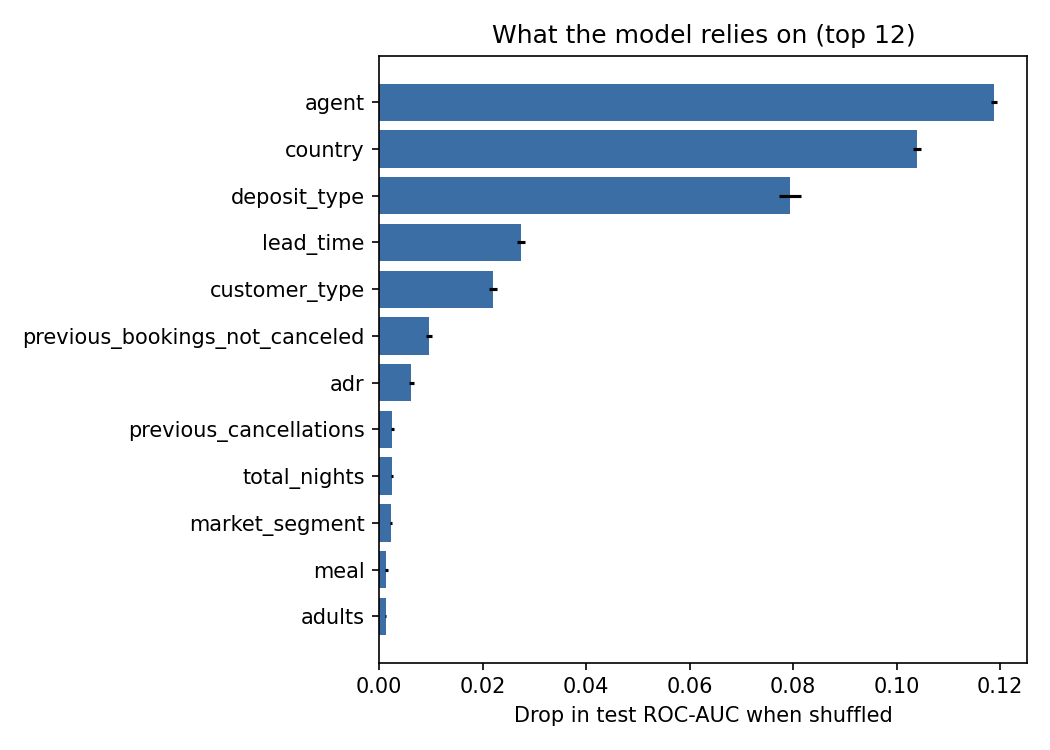
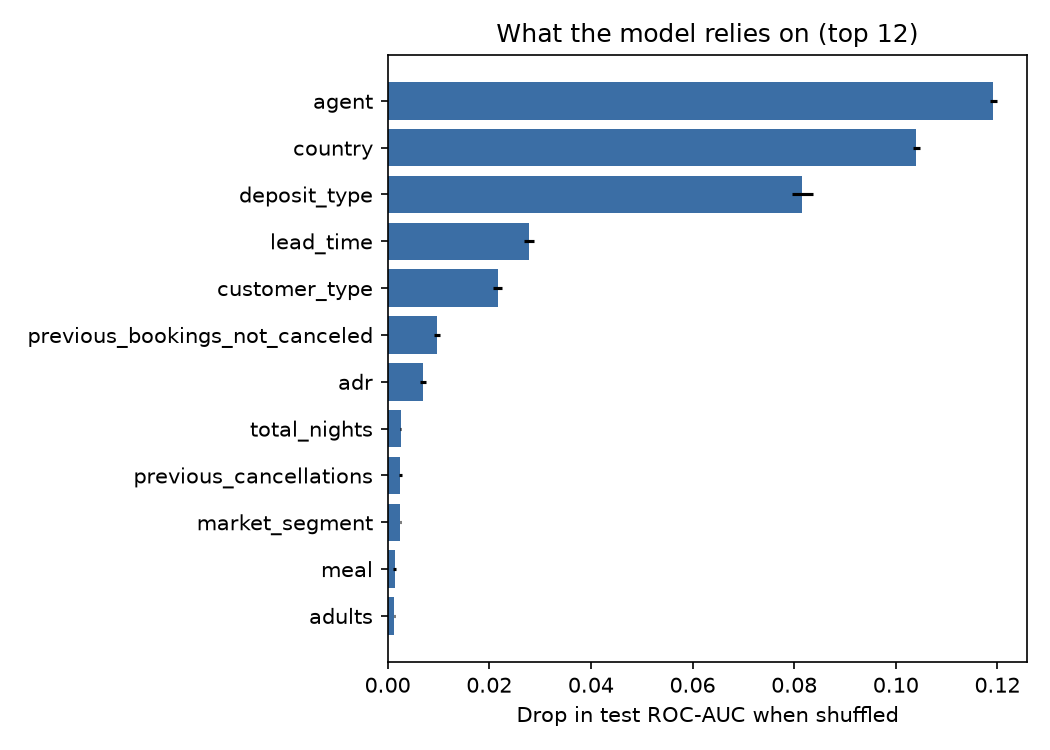
Add SHAP summary, make optional models fail gracefully, refresh importance numbers
Claude-Session: https://claude.ai/code/session_01BaMqLk4VUpKL539A4cXSQP

diff --git a/src/hotel_risk/compare_models.py b/src/hotel_risk/compare_models.py
@@ -41,14 +41,14 @@ def candidates() -> dict:
         from lightgbm import LGBMClassifier
         out["lightgbm"] = lambda: Pipeline([("pre", _ordinal_pre()), ("clf", LGBMClassifier(
             n_estimators=400, learning_rate=0.05, num_leaves=31, random_state=0, verbose=-1))])
-    except ImportError:
-        pass
+    except Exception as e:  # not installed, or a native library (e.g. libomp on macOS) is missing
+        print(f"skipping optional model: {e.__class__.__name__}")
     try:
         from xgboost import XGBClassifier
         out["xgboost"] = lambda: Pipeline([("pre", _ordinal_pre()), ("clf", XGBClassifier(
             n_estimators=400, learning_rate=0.05, max_depth=6, random_state=0, eval_metric="logloss"))])
-    except ImportError:
-        pass
+    except Exception as e:  # not installed, or a native library (e.g. libomp on macOS) is missing
+        print(f"skipping optional model: {e.__class__.__name__}")
     return out
 
 

diff --git a/README.md b/README.md
@@ -138,11 +138,11 @@ Permutation importance on the test period (shuffle one feature, see how much ROC
 |---|---|
 | `agent` | 0.119 |
 | `country` | 0.104 |
-| `deposit_type` | 0.079 |
-| `lead_time` | 0.027 |
+| `deposit_type` | 0.082 |
+| `lead_time` | 0.028 |
 | `customer_type` | 0.022 |
 
-The plot is in `reports/feature_importance.png`. Two honest observations: `lead_time` and
+The plot is in `reports/feature_importance.png`, and a SHAP summary (which direction each feature pushes the prediction) is in `reports/shap_summary.png`. Two honest observations: `lead_time` and
 `deposit_type` are the kind of drivers you'd expect, but `agent` and `country` are the top two.
 Those are specific to *these* hotels (travel agent IDs and where guests come from), so a model
 trained here would not carry over to another hotel unchanged. That is a limitation of the data, not
@@ -158,8 +158,8 @@ Same temporal split, different model families:
 
 Gradient boosting wins by a small margin, which is why it is the model used everywhere else.
 `python -m hotel_risk.compare_models` also runs LightGBM and XGBoost if they are installed, and
-`python -m hotel_risk.explain --shap` adds a SHAP summary plot (`pip install -r requirements-extra.txt`).
-These optional extras are not part of the CI run.
+`python -m hotel_risk.explain --shap` regenerates the SHAP plot (`pip install -r requirements-extra.txt`;
+on macOS LightGBM and XGBoost also need `libomp`). These optional extras are not part of the CI run.
 
 ## The API
 
